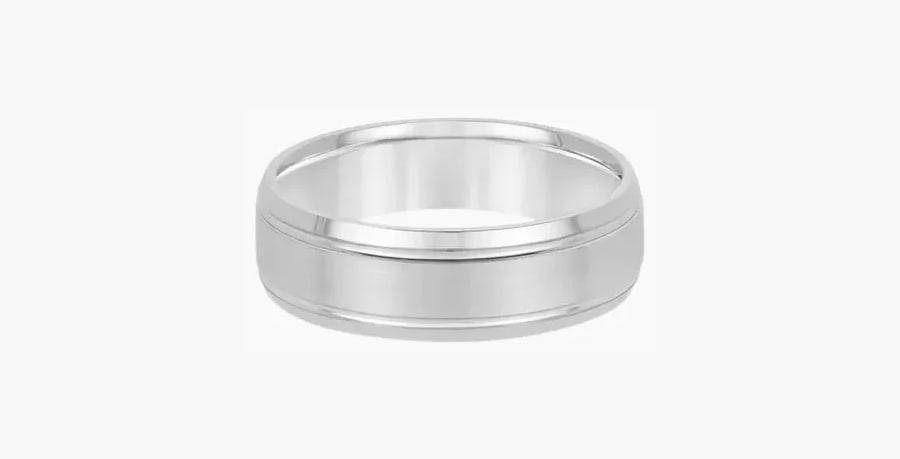
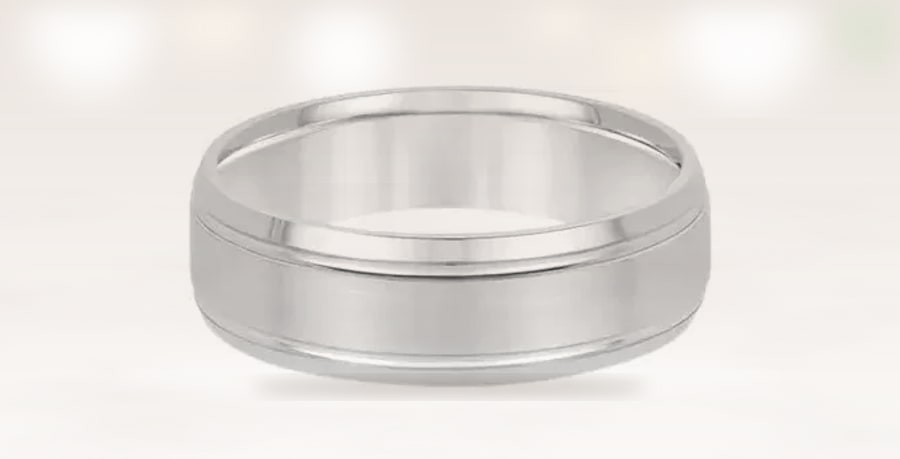
Orange gold buttons and marble backgrounds for the Anniversary and Classic Bands cards
The gold buttons on the luxe landing pages (cms-btn-gold and
cms-btn-gold-outline) now use #ef9822, with a darker hover for the solid one
and a filled hover for the outline one. The four ring pictures on the
Anniversary and Classic Bands pages sit on a marble-and-bokeh backdrop like
the Wedding Band cards instead of a flat grey.

diff --git a/src/app/(site)/storefront.css b/src/app/(site)/storefront.css
@@ -338,10 +338,10 @@
 .cms-content a.cms-btn-gold-outline { display: inline-flex; align-items: center; font-size: 12px; font-weight: 500; letter-spacing: 0.16em; text-decoration: none; text-transform: uppercase; transition: background-color 0.2s ease, color 0.2s ease; }
 .cms-content a.cms-btn-gold::after,
 .cms-content a.cms-btn-gold-outline::after { content: "\2192"; margin-left: 0.9em; letter-spacing: 0; }
-.cms-content a.cms-btn-gold { padding: 1em 2em; background-color: #c49342; color: #ffffff; }
-.cms-content a.cms-btn-gold:hover { background-color: #ab7d33; color: #ffffff; }
-.cms-content a.cms-btn-gold-outline { padding: 0.85em 1.6em; border: 1px solid #b8923a; color: #a07a2d; font-size: 10.5px; }
-.cms-content a.cms-btn-gold-outline:hover { background-color: #b8923a; color: #ffffff; }
+.cms-content a.cms-btn-gold { padding: 1em 2em; background-color: #ef9822; color: #ffffff; }
+.cms-content a.cms-btn-gold:hover { background-color: #d6830f; color: #ffffff; }
+.cms-content a.cms-btn-gold-outline { padding: 0.85em 1.6em; border: 1px solid #ef9822; color: #ef9822; font-size: 10.5px; }
+.cms-content a.cms-btn-gold-outline:hover { background-color: #ef9822; color: #ffffff; }
 /* Tiles: photo cards on a white page, three per row (two, then one on smaller screens). */
 .cms-content table.cms-luxe-tiles,
 .cms-content table.cms-luxe-tiles tbody { display: block; width: 100%; margin: 0; }
